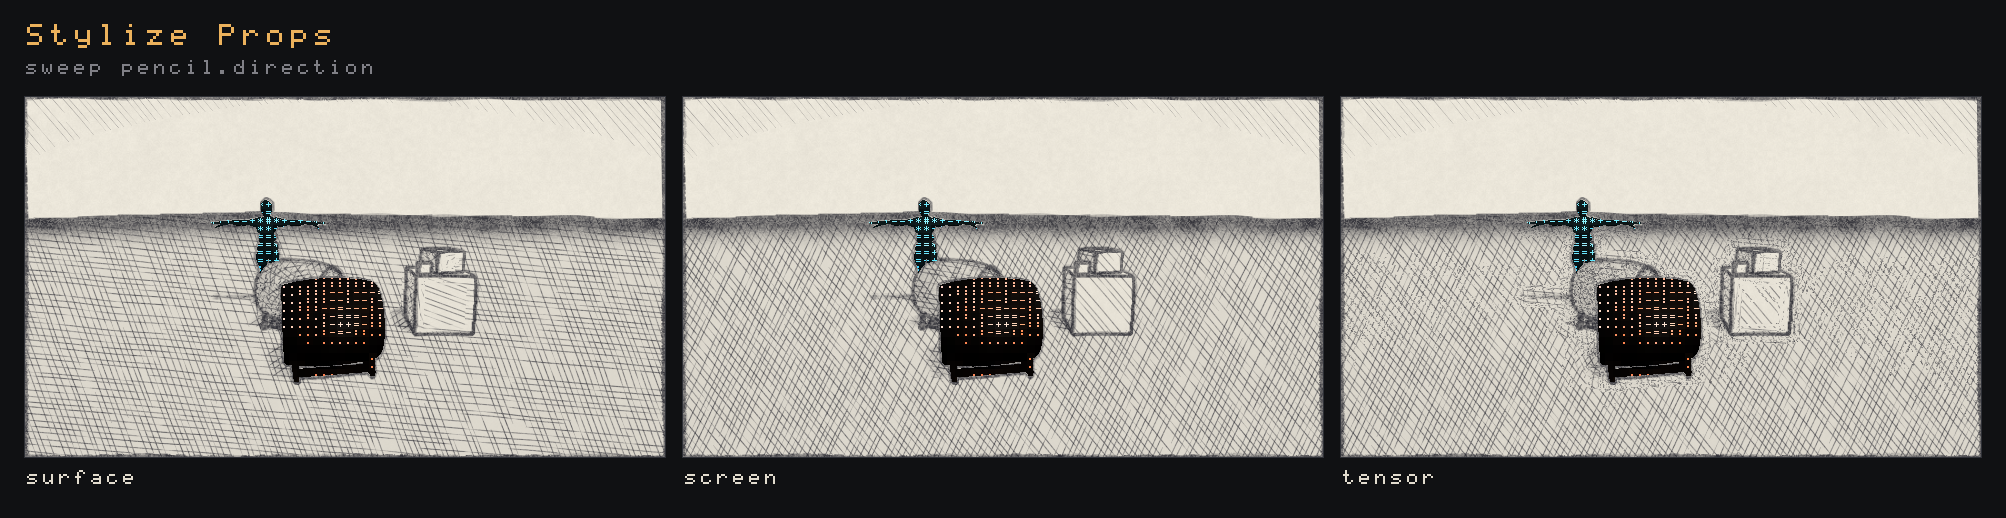
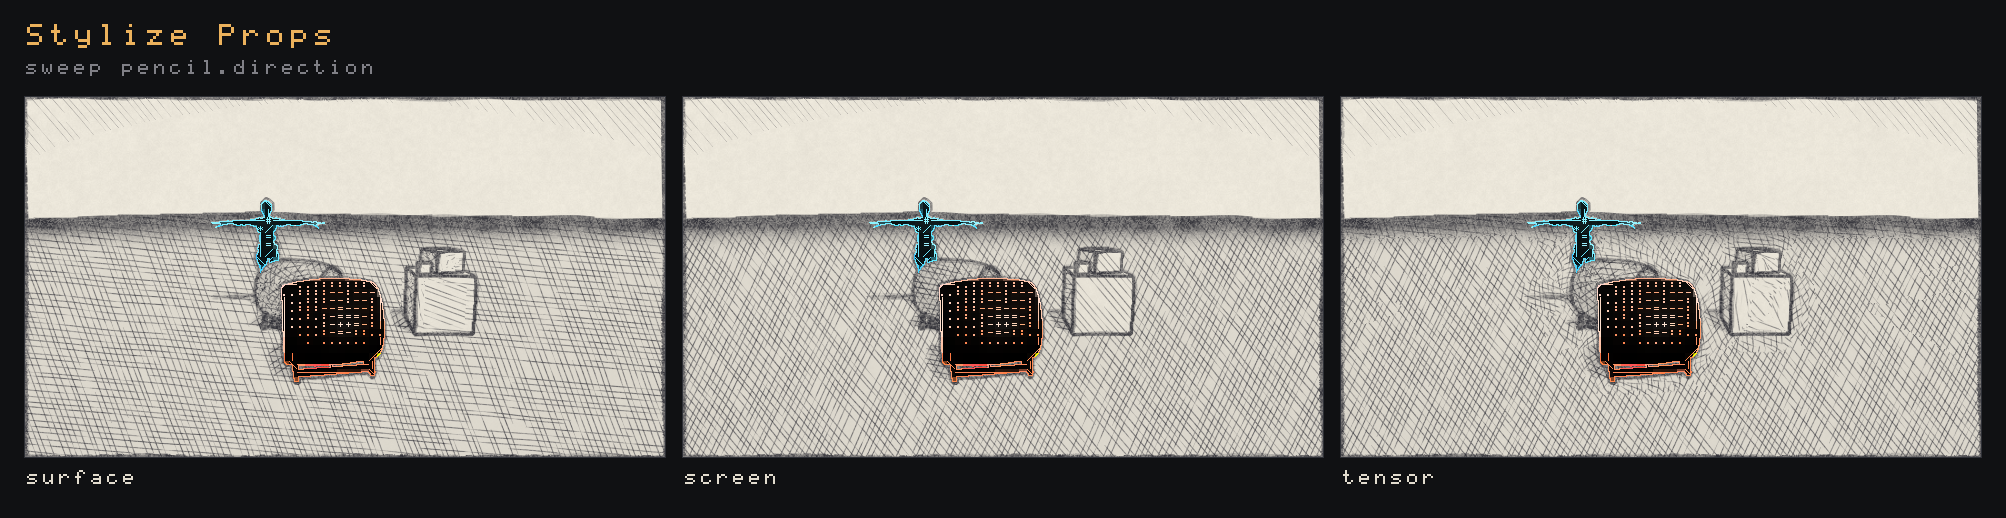
Pencil: a wider, separable flow blur for tensor hatching (#392)
Tensor hatching blurred its structure tensor with 25 sparse taps over
about 1.5 stroke spacings inside the draw pass, and round shadow edges
and ambient occlusion the tensor's flips leaked through, fraying the
strokes into short crossing patches.

Two passes now sit between prep and draw (pencil_flow.wgsl), run only
while some row hatches by tensor: a separable Gaussian over about three
spacings, at half resolution with taps in whole pairs of full pixels so
each bilinear read averages a 2x2 block and the reads tile the row. The
across pass weights each tap by its contour strength, so silhouettes
and creases steer the flow and flat noise barely counts. Surface keeps
its narrow in-pass blur (a wide one would carry it over silhouettes).

1080p on an RTX 4070, demo/pencil_sketch, tensor: 0.56 -> 0.64 ms mean
of six alternating --gpu-time 240 runs (+0.08 ms; surface control moves
+-0.05). pencil-tensor golden re-blessed; the other 50 cases pass
unchanged. Book text and the direction sweep image updated.

Closes #392

diff --git a/crates/flint-render/src/stylize/pencil.rs b/crates/flint-render/src/stylize/pencil.rs
@@ -24,7 +24,10 @@
 //! points (times [`StyleFrame::pixels_per_point`]). Two passes: the first
 //! writes each pixel's tone, contour strength and local stroke direction
 //! into a scratch target; the second blurs the direction into a flow and
-//! draws strokes, outlines and paper from it.
+//! draws strokes, outlines and paper from it. While a variant hatches by
+//! `tensor`, two more passes between them (`pencil_flow.wgsl`, #392) blur
+//! its direction wide, separably and at half resolution, each pixel
+//! weighted by its contour strength; the second pass then reads that.
 //!
 //! Stroke direction (`direction`): `surface` runs strokes along the
 //! surface's iso-depth lines (round a barrel, across a floor), taken from
@@ -72,6 +75,12 @@ pub const MAX_IDS: usize = 256;
 
 /// The scratch target pass 1 writes: tone, contour, flow.
 pub const PREP_FORMAT: wgpu::TextureFormat = wgpu::TextureFormat::Rgba16Float;
+
+/// The tensor flow blur's two targets (#392): the blurred double angle.
+pub const FLOW_FORMAT: wgpu::TextureFormat = wgpu::TextureFormat::Rg16Float;
+
+/// The direction mode the flow blur runs for.
+const TENSOR: f32 = 2.0;
 
 const PARAMS: &[StyleParam] = &[
     StyleParam::new("spacing", 6.0, 2.0..=24.0),
@@ -145,7 +154,7 @@ fn create(d: &StyleDevice) -> Box<dyn StylePass> {
     let device = d.device;
     let uniform_bgl = kit::uniform_layout(device, "Pencil Uniform BGL");
     let input_bgl = kit::sampled_layout(device, "Pencil Input BGL");
-    let prep_bgl = kit::sampled_layout(device, "Pencil Prep BGL");
+    let prep_bgl = prep_layout(device);
     let geometry_bgl = device.create_bind_group_layout(&wgpu::BindGroupLayoutDescriptor {
         label: Some("Pencil Geometry BGL"),
         entries: &[
@@ -187,7 +196,20 @@ fn create(d: &StyleDevice) -> Box<dyn StylePass> {
         view_formats: &[],
     });
     let no_mask_view = no_mask.create_view(&Default::default());
+    let flow_shader = kit::shader(device, "Pencil Flow Shader", FLOW_SHADER);
+    let flow_pipeline = |label: &str, entry: &str| {
+        kit::fullscreen_pipeline_entry(
+            device,
+            label,
+            &flow_shader,
+            entry,
+            &[&uniform_bgl, &input_bgl, &geometry_bgl],
+            FLOW_FORMAT,
+        )
+    };
     Box::new(Pencil {
+        flow_across: flow_pipeline("Pencil Flow Across Pipeline", "fs_across"),
+        flow_down: flow_pipeline("Pencil Flow Down Pipeline", "fs_down"),
         prep_pipeline: kit::fullscreen_pipeline(
             device,
             "Pencil Prep Pipeline",
@@ -221,6 +243,46 @@ const DRAW_SHADER: &str = concat!(
     include_str!("pencil_common.wgsl"),
     include_str!("pencil.wgsl")
 );
+const FLOW_SHADER: &str = concat!(
+    include_str!("pencil_common.wgsl"),
+    include_str!("pencil_flow.wgsl")
+);
+
+/// The drawing pass's group 3: the prep target and its sampler, and the
+/// blurred tensor flow (#392; the prep again while no row hatches by
+/// tensor, which the shader then never reads).
+fn prep_layout(device: &wgpu::Device) -> wgpu::BindGroupLayout {
+    let texture = |binding| wgpu::BindGroupLayoutEntry {
+        binding,
+        visibility: wgpu::ShaderStages::FRAGMENT,
+        ty: wgpu::BindingType::Texture {
+            sample_type: wgpu::TextureSampleType::Float { filterable: true },
+            view_dimension: wgpu::TextureViewDimension::D2,
+            multisampled: false,
+        },
+        count: None,
+    };
+    device.create_bind_group_layout(&wgpu::BindGroupLayoutDescriptor {
+        label: Some("Pencil Prep BGL"),
+        entries: &[
+            texture(0),
+            wgpu::BindGroupLayoutEntry {
+                binding: 1,
+                visibility: wgpu::ShaderStages::FRAGMENT,
+                ty: wgpu::BindingType::Sampler(wgpu::SamplerBindingType::Filtering),
+                count: None,
+            },
+            texture(2),
+        ],
+    })
+}
+
+/// Whether any row in use hatches along the picture's edges, so the flow
+/// blur has to run.
+pub fn any_tensor(rows: &[PencilRow]) -> bool {
+    rows.iter()
+        .any(|r| r.v[6][2] != PASS_THROUGH && r.v[4][3] == TENSOR)
+}
 
 /// One variant's settings, seven vec4s (see `PencilRow` in the shader).
 #[repr(C)]
@@ -346,6 +408,10 @@ pub fn row(
 
 struct Pencil {
     prep_pipeline: wgpu::RenderPipeline,
+    /// The tensor flow blur along x, from the prep target (#392)
+    flow_across: wgpu::RenderPipeline,
+    /// And along y, from the across pass's result
+    flow_down: wgpu::RenderPipeline,
     draw_pipeline: wgpu::RenderPipeline,
     uniforms: wgpu::Buffer,
     uniform_bgl: wgpu::BindGroupLayout,
@@ -491,17 +557,65 @@ impl StylePass for Pencil {
             &self.prep_pipeline,
             &[&uniform, &input_bind, &geometry],
         );
+        // The tensor flow: blurred wide in two passes (#392), only when a
+        // row asks for it. Group 3 holds the prep and the flow, the prep
+        // twice while no row does.
+        let flow = any_tensor(&rows).then(|| {
+            // At half resolution: the flow is smooth over a dozen pixels
+            let (w, h) = (frame.width.div_ceil(2), frame.height.div_ceil(2));
+            let across = frame.target_sized("pencil.flow_across", FLOW_FORMAT, w, h);
+            let flow = frame.target_sized("pencil.flow", FLOW_FORMAT, w, h);
+            kit::fullscreen_pass(
+                encoder,
+                "Pencil Flow Across",
+                &across.view,
+                &self.flow_across,
+                &[
+                    &uniform,
+                    &frame.sampled("Pencil Flow Prep BG", &self.input_bgl, &prep.view),
+                    &geometry,
+                ],
+            );
+            kit::fullscreen_pass(
+                encoder,
+                "Pencil Flow Down",
+                &flow.view,
+                &self.flow_down,
+                &[
+                    &uniform,
+                    &frame.sampled("Pencil Flow Across BG", &self.input_bgl, &across.view),
+                    &geometry,
+                ],
+            );
+            flow
+        });
+        let flow_view = flow.as_ref().map_or(&prep.view, |f| &f.view);
+        let prep_bind = frame.bind("Pencil Prep BG", flow.is_some() as u64, || {
+            frame.device.create_bind_group(&wgpu::BindGroupDescriptor {
+                label: Some("Pencil Prep BG"),
+                layout: &self.prep_bgl,
+                entries: &[
+                    wgpu::BindGroupEntry {
+                        binding: 0,
+                        resource: wgpu::BindingResource::TextureView(&prep.view),
+                    },
+                    wgpu::BindGroupEntry {
+                        binding: 1,
+                        resource: wgpu::BindingResource::Sampler(frame.linear_sampler),
+                    },
+                    wgpu::BindGroupEntry {
+                        binding: 2,
+                        resource: wgpu::BindingResource::TextureView(flow_view),
+                    },
+                ],
+            })
+        });
         kit::fullscreen_pass(
             encoder,
             "Pencil Pass",
             output,
             &self.draw_pipeline,
-            &[
-                &uniform,
-                &input_bind,
-                &geometry,
-                &frame.sampled("Pencil Prep BG", &self.prep_bgl, &prep.view),
-            ],
+            &[&uniform, &input_bind, &geometry, &prep_bind],
         );
     }
 }
@@ -524,7 +638,11 @@ mod tests {
 
     #[test]
     fn both_shaders_validate_and_their_uniforms_match_rust() {
-        for (source, name) in [(PREP_SHADER, "prep"), (DRAW_SHADER, "draw")] {
+        for (source, name) in [
+            (PREP_SHADER, "prep"),
+            (DRAW_SHADER, "draw"),
+            (FLOW_SHADER, "flow"),
+        ] {
             let module = validate(source, name);
             let (_, u) = module
                 .global_variables
@@ -613,6 +731,38 @@ mod tests {
                 );
             }
         }
+    }
+
+    /// The flow blur (#392) runs only for a drawn row that hatches by tensor.
+    #[test]
+    fn the_flow_blur_runs_only_for_tensor_rows() {
+        let config = crate::postprocess::PostProcessConfig::default();
+        let p = |n: &str| STYLE.param(&config, n);
+        let with = |dir: &'static str, flags: f32| {
+            row(
+                &p,
+                &|n: &str| {
+                    if n == "direction" {
+                        dir.into()
+                    } else {
+                        STYLE.option(&config, n).to_string()
+                    }
+                },
+                0.0,
+                [0.0, 0.0],
+                flags,
+            )
+        };
+        let surface = with("surface", 0.0);
+        let screen = with("screen", 0.0);
+        let tensor = with("tensor", 0.0);
+        let tensor_off = with("tensor", PASS_THROUGH);
+        assert!(!any_tensor(&[surface, screen]));
+        assert!(any_tensor(&[surface, tensor]));
+        assert!(
+            !any_tensor(&[surface, tensor_off]),
+            "an opt-out row draws nothing"
+        );
     }
 
     #[test]

diff --git a/docs/book/src/concepts/stylize-passes.md b/docs/book/src/concepts/stylize-passes.md
@@ -497,7 +497,7 @@ flint render scene.toml --style pencil --sweep pencil.direction=surface,screen,t
 How it draws:
 
 - **Hatching builds tone the way a hand does.** Each layer switches on as the tone darkens past its threshold, and its strokes thicken from nothing rather than popping in. A layer crosses the one before it off the square (at 0°, +65°, −40° and +25°), so layers never make a grid. Each stroke is a dash of its own length that tapers at both ends, is jittered off its row and is bent by a slow wobble. A few dashes are left out.
-- **Stroke direction.** `surface` runs strokes along the surface's iso-depth lines, taken from the gradient of 1/z. That gradient is constant over a plane, so a box face hatches straight, and it turns smoothly round a barrel and across a floor. `screen` hatches everything at `angle`. `tensor` follows the picture's luminance edges (a blurred structure tensor), which gets busy around shadows. Where a surface or tensor direction is unsure (a face turned square to the camera, a flat colour), `angle` shows through. Directions are quantized to 15° bins with neighbouring bins blended, so strokes stay straight within a patch, as hand hatching does.
+- **Stroke direction.** `surface` runs strokes along the surface's iso-depth lines, taken from the gradient of 1/z. That gradient is constant over a plane, so a box face hatches straight, and it turns smoothly round a barrel and across a floor. `screen` hatches everything at `angle`. `tensor` follows the picture's luminance edges, a structure tensor blurred over about three stroke spacings in two separable passes at half resolution (#392). In that blur each pixel's direction is weighted by its contour strength, so silhouettes and creases steer the flow and a flat, noisy patch (soft shadow, ambient occlusion) barely counts. The strokes sweep round a shadow's edge instead of fraying into short crossing patches. Where a surface or tensor direction is unsure (a face turned square to the camera, a flat colour), `angle` shows through. Directions are quantized to 15° bins with neighbouring bins blended, so strokes stay straight within a patch, as hand hatching does.
 - **Contours** come from depth steps (drawn on the near side), creases (the normal rebuilt from depth turns), the edge of a styled entity's mask, and luminance edges by `detail`. They are read back through a noise offset (`wobble`), twice when `sketchy` is set.
 - **Deterministic.** Every random choice is an integer hash of the stroke's row, dash, layer and `seed`, so the same seed draws byte-identical frames. `boil` moves the seed in whole steps of post time, which `--style-time` fixes.
 
@@ -505,7 +505,7 @@ How it draws:
 
 ![Close up: the crate's faces hatched straight, its outline doubled, the ground cross-hatched in three layers](../images/pencil-closeup.png)
 
-It runs at the display stage, at output resolution, with sizes in points (times the pixels-per-point scale), in two passes. The first pass writes each pixel's tone, contour strength and stroke direction into a scratch target. The second blurs the direction into a flow and draws the strokes. At 1080p on an RTX 4070 the whole frame costs about 0.49 ms. With only two props asking for it the cost is 0.19 ms, because both full-screen passes still run and only return early on unstyled pixels.
+It runs at the display stage, at output resolution, with sizes in points (times the pixels-per-point scale), in two passes. The first pass writes each pixel's tone, contour strength and stroke direction into a scratch target. The second blurs the direction into a flow and draws the strokes. Only when a variant hatches by `tensor`, two half-resolution passes between them blur its flow first (`pencil_flow.wgsl`), and the drawing pass reads the result. At 1080p on an RTX 4070 the whole frame costs about 0.49 ms; `tensor` adds about 0.08 ms (0.56 to 0.64 ms on `demo/pencil_sketch.scene.toml`, the mean of six alternating `--gpu-time 240` runs). With only two props asking for it the cost is 0.19 ms, because both full-screen passes still run and only return early on unstyled pixels.
 
 **Per entity.** Pencil works per entity in the same way as ASCII. A `pencil_style` component, or a plain `style_mask { style = "pencil" }`, draws that entity in pencil while the rest of the frame stays as it is, and each distinct set of settings becomes a variant with its own mask id. Every field of the table above except `scope` can be set on the component, and a field it leaves out comes from the scene's table, then the default. `grid = "object"` pins an entity's hatching to its projected origin, so its strokes travel with it. With `scope = "entities"` the scene's table is only a preset. A pixel that another style owns (an ASCII prop in a pencil frame) is left to that style.
 
